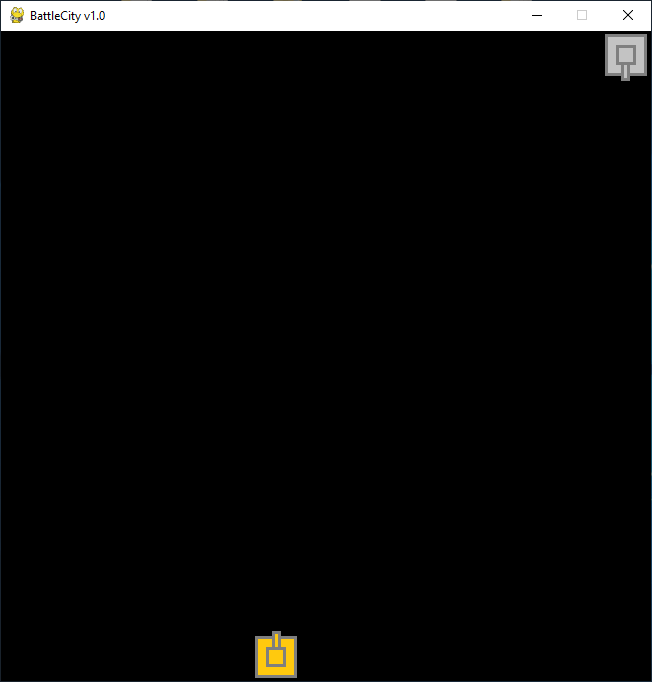
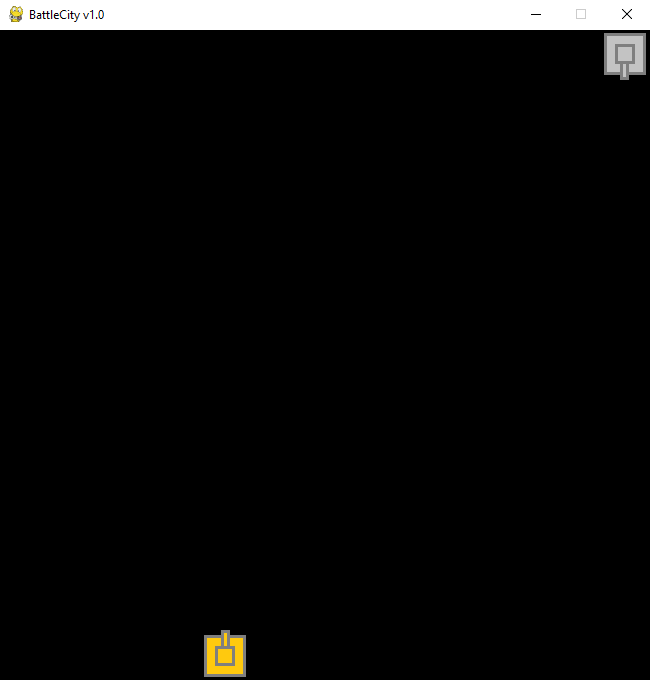
first commit

diff --git a/main.py b/main.py
@@ -14,9 +14,13 @@ SCREEN_HEIGHT = 650
 SCREEN_TITLE = "BattleCity"
 
 FPS = 60
+TILE = 50
+
 PLAYER_SPEED = 5
-PLAYER_SIZE = 50
+PLAYER_SIZE = TILE
 BULLET_SPEED = PLAYER_SPEED * 2
+
+ENEMY_SPEED = 5
 
 # rgb color tuples
 RED = (255, 0, 0)
@@ -31,17 +35,23 @@ ALPHA = GREEN
 # game variables
 # settings
 __version__ = "v1.0"
-direction = "w"
 running = True
+
+direction = 0
+bullet_counter = 0
 
 # enemy settings
 enemy_id = 20
 max_enemy = 4
-move_range = random.randint(25, 625)
+
+enemy_direction = random.randint(0, 3)
+enemy_moving_range = random.randint(0, SCREEN_WIDTH)
+
+enemy_fireing = 0
 
 # game lists
 # cpu spawn points
-enemy_spawn = [25, 325, 625]
+enemy_spawn = [0, 350, 650]
 
 # setting up screen
 SCREEN = pygame.display.set_mode((SCREEN_WIDTH, SCREEN_HEIGHT))
@@ -56,11 +66,11 @@ pygame.font.init()
 # game classes
 # class player
 class Player(pygame.sprite.Sprite):
-	def __init__(self, img="static/herow.png", pos_x=275, pos_y=625):
+	def __init__(self, img="static/herow.png", pos_x=5, pos_y=13):
 		super().__init__()
 		self.image = pygame.image.load(img).convert()
 		self.image.set_colorkey(ALPHA)
-		self.rect = self.image.get_rect(center = [pos_x, pos_y])
+		self.rect = self.image.get_rect(center = [pos_x * 50 - 25, pos_y * 50 - 25])
 
 	def update(self):
 		# restricting player go out the world boundaries
@@ -73,6 +83,16 @@ class Player(pygame.sprite.Sprite):
 		if self.rect.y <= 0:
 			self.rect.y = 0
 
+class Block(pygame.sprite.Sprite):
+	def __init__(self, img="static/brick_wall.png", pos_x=6, pos_y=13):
+		super().__init__()
+		self.image = pygame.image.load(img).convert()
+		self.image.set_colorkey(ALPHA)
+		self.rect = self.image.get_rect(center = [pos_x * 50 - 25, pos_y * 50 - 25])
+
+	def update(self):
+		pass
+
 class Bullet(pygame.sprite.Sprite):
 	def __init__(self, img="static/bullet.png", pos_x=25, pos_y=25):
 		super().__init__()
@@ -82,31 +102,21 @@ class Bullet(pygame.sprite.Sprite):
 
 	def update(self):
 		# updating bullet movement
-		if direction == "w":
+		if direction == 0:
 			self.rect.y -= BULLET_SPEED
-		if direction == "s":
+		if direction == 2:
 			self.rect.y += BULLET_SPEED
-		if direction == "a":
+		if direction == 3:
 			self.rect.x -= BULLET_SPEED
-		if direction == "d":
+		if direction == 1:
 			self.rect.x += BULLET_SPEED
-
-		# destroying bullet condition
-		if self.rect.y <= 0:
-			self.kill()
-		if self.rect.y >= SCREEN_HEIGHT:
-			self.kill()
-		if self.rect.x <= 0:
-			self.kill()
-		if self.rect.x >= SCREEN_WIDTH:
-			self.kill()
 
 class Enemy(pygame.sprite.Sprite):
 	def __init__(self, img="static/enemys.png", pos_x=enemy_spawn[random.randint(0, 2)], pos_y=25):
 		super().__init__()
 		self.image = pygame.image.load(img).convert()
 		self.image.set_colorkey(ALPHA)
-		self.rect = self.image.get_rect(center = [pos_x, pos_y])
+		self.rect = self.image.get_rect(center = [pos_x - 25, pos_y - 25])
 
 	def update(self):
 		# restricting enemy go out the world boundaries
@@ -118,9 +128,6 @@ class Enemy(pygame.sprite.Sprite):
 			self.rect.x = 0
 		if self.rect.y <= 0:
 			self.rect.y = 0
-
-		# movement mechanism
-
 
 # game functions
 # exit game function
@@ -140,26 +147,38 @@ player_group = pygame.sprite.Group()
 player = Player(img="static/hero.png")
 player_group.add(player)
 
+flag_group = pygame.sprite.Group()
+flag = Block(pos_x=7, pos_y=13, img="static/flag.png")
+flag_group.add(flag)
+
 bullet_group = pygame.sprite.Group()
 bullet = Bullet(pos_x=player.rect.x, pos_y=player.rect.y)
 
 enemy_group = pygame.sprite.Group()
-enemy = Enemy(img="static/enemy.png", pos_x=enemy_spawn[random.randint(0, 2)])
+enemy = Enemy(img="static/enemy.png")
 enemy.image = pygame.transform.rotate(enemy.image, 180)
 enemy_group.add(enemy)
 
 # main game loop
 while running:
 	# events
+	# key input
+	keys = pygame.key.get_pressed()
 	for event in pygame.event.get():
 		if event.type == pygame.QUIT:
 			exit()
 
-	# key input
-	keys = pygame.key.get_pressed()
+	# fiering bullet mechanism
+	if keys[pygame.K_SPACE] and bullet_counter != 1:
+		bullet_counter += 1
+
+		bullet_group = pygame.sprite.Group()
+		bullet = Bullet(pos_x=player.rect.x + PLAYER_SIZE // 2, pos_y=player.rect.y + PLAYER_SIZE // 2)
+		bullet_group.add(bullet)
+
 	# player movement mechanism
 	if keys[pygame.K_w]:
-		direction = "w"
+		direction = 0
 		player.rect.y -= PLAYER_SPEED
 
 		# drawing proper player and bullet image for moving direction
@@ -167,7 +186,7 @@ while running:
 		player.image.set_colorkey(ALPHA)
 
 	elif keys[pygame.K_a]:
-		direction = "a"
+		direction = 3
 		player.rect.x -= PLAYER_SPEED
 
 		# drawing proper player and bullet image for moving direction
@@ -176,7 +195,7 @@ while running:
 		player.image.set_colorkey(ALPHA)
 
 	elif keys[pygame.K_s]:
-		direction = "s"
+		direction = 2
 		player.rect.y += PLAYER_SPEED
 
 		# drawing proper player and bullet image for moving direction
@@ -185,7 +204,7 @@ while running:
 		player.image.set_colorkey(ALPHA)
 
 	elif keys[pygame.K_d]:
-		direction = "d"
+		direction = 1
 		player.rect.x += PLAYER_SPEED
 
 		# drawing proper player and bullet image for moving direction
@@ -193,43 +212,117 @@ while running:
 		player.image = pygame.transform.rotate(player.image, 270)
 		player.image.set_colorkey(ALPHA)
 
+	# destroying bullet and reseting bullet conditions 
+	if bullet.rect.y <= 0:
+		bullet.kill()
+		bullet_counter = 0
+
+	if bullet.rect.y >= SCREEN_HEIGHT:
+		bullet.kill()
+		bullet_counter = 0
+
+	if bullet.rect.x <= 0:
+		bullet.kill()
+		bullet_counter = 0
+
+	if bullet.rect.x >= SCREEN_WIDTH:
+		bullet.kill()
+		bullet_counter = 0
+
 	# direction
-	if direction == "w":
+	if direction == 0:
 		bullet.image = pygame.image.load("static/bullet.png").convert()
 		bullet.image.set_colorkey(ALPHA)
 
-	elif direction == "a":
+	if direction == 3:
 		bullet.image = pygame.image.load("static/bullet.png").convert()
 		bullet.image = pygame.transform.rotate(bullet.image, 90)
 		bullet.image.set_colorkey(ALPHA)
 
-	elif direction == "s":
+	if direction == 2:
 		bullet.image = pygame.image.load("static/bullet.png").convert()
 		bullet.image = pygame.transform.rotate(bullet.image, 180)
 		bullet.image.set_colorkey(ALPHA)
 
-	elif direction == "d":
+	if direction == 1:
 		bullet.image = pygame.image.load("static/bullet.png").convert()
 		bullet.image = pygame.transform.rotate(bullet.image, 270)
 		bullet.image.set_colorkey(ALPHA)
 
-	# fiering bullet mechanism
-	if keys[pygame.K_SPACE]:
-		bullet_group = pygame.sprite.Group()
-		bullet = Bullet(pos_x=player.rect.x + PLAYER_SIZE // 2, pos_y=player.rect.y + PLAYER_SIZE // 2)
-		bullet_group.add(bullet)
+	# enemy moving direction
+	if enemy_direction == 0:
+		enemy.rect.y -= ENEMY_SPEED
 
-	# if player bullet hit enemy
+		enemy.image = pygame.image.load("static/enemy.png").convert()
+		enemy.image.set_colorkey(ALPHA)
+
+		if enemy.rect.y <= enemy_moving_range:
+			enemy_moving_range = random.randint(0, SCREEN_WIDTH)
+			enemy_direction = random.randint(0, 3)
+
+	elif enemy_direction == 2:
+		enemy.rect.y += ENEMY_SPEED
+
+		enemy.image = pygame.image.load("static/enemy.png").convert()
+		enemy.image = pygame.transform.rotate(enemy.image, 180)
+		enemy.image.set_colorkey(ALPHA)
+
+		if enemy.rect.y >= enemy_moving_range:
+			enemy_moving_range = random.randint(0, SCREEN_WIDTH)
+			enemy_direction = random.randint(0, 3)
+
+	elif enemy_direction == 1:
+		enemy.rect.x += ENEMY_SPEED
+
+		enemy.image = pygame.image.load("static/enemy.png").convert()
+		enemy.image = pygame.transform.rotate(enemy.image, 270)
+		enemy.image.set_colorkey(ALPHA)
+
+		if enemy.rect.x >= enemy_moving_range:
+			enemy_moving_range = random.randint(0, SCREEN_WIDTH)
+			enemy_direction = random.randint(0, 3)
+
+	elif enemy_direction == 3:
+		enemy.rect.x -= ENEMY_SPEED
+
+		enemy.image = pygame.image.load("static/enemy.png").convert()
+		enemy.image = pygame.transform.rotate(enemy.image, 90)
+		enemy.image.set_colorkey(ALPHA)
+
+		if enemy.rect.x <= enemy_moving_range:
+			enemy_moving_range = random.randint(0, SCREEN_WIDTH)
+			enemy_direction = random.randint(0, 3)
+
+	# collision section
+	# if players bullet hit enemy
 	if pygame.sprite.groupcollide(bullet_group, enemy_group, True, True, pygame.sprite.collide_rect_ratio(.85)):
 		enemy_id -= 1
+		bullet_counter = 0
 
 		if enemy_id >= 0:
 			enemy_group = pygame.sprite.Group()
 			enemy = Enemy(img="static/enemy.png", pos_x=enemy_spawn[random.randint(0, 2)])
 			enemy.image = pygame.transform.rotate(enemy.image, 180)
 			enemy_group.add(enemy)
+
+			enemy_direction = random.randint(0, 3)
+			enemy_moving_range = random.randint(0, SCREEN_WIDTH)
 		else:
 			enemy.kill()
+
+	# if players bullet hit brickwall
+	if pygame.sprite.groupcollide(bullet_group, flag_group, True, True, pygame.sprite.collide_rect_ratio(.85)):
+		exit()
+
+	# if player hit enemy
+	if pygame.sprite.groupcollide(player_group, enemy_group, False, False, pygame.sprite.collide_rect_ratio(.85)):
+		enemy_direction = random.randint(0, 3)
+		enemy_moving_range = random.randint(0, SCREEN_WIDTH)
+
+	# if enemy hit brickwall
+	if pygame.sprite.groupcollide(enemy_group, flag_group, False, False, pygame.sprite.collide_rect_ratio(.85)):
+		enemy_direction = random.randint(0, 3)
+		enemy_moving_range = random.randint(0, SCREEN_WIDTH)
 
 	# drawing sprites on the screen
 	SCREEN.fill(BLACK)
@@ -240,8 +333,16 @@ while running:
 	player_group.update()
 	player_group.draw(SCREEN)
 
+	flag_group.update()
+	flag_group.draw(SCREEN)
+
 	enemy_group.update()
 	enemy_group.draw(SCREEN)
+
+	# for l1 in range(0, SCREEN_WIDTH, TILE):
+	# 	pygame.draw.line(SCREEN, GREEN, (0, l1), (SCREEN_WIDTH, l1))
+	# 	for l2 in range(0, SCREEN_WIDTH, TILE):
+	# 		pygame.draw.line(SCREEN, GREEN, (l2, 0), (l2, SCREEN_HEIGHT))
 
 	# fps counter
 	pygame.display.flip()

diff --git a/README.md b/README.md
@@ -1,1 +1,2 @@
 "# Pygame_BattleCity" 
+"# Pygame_BattleCity" 
